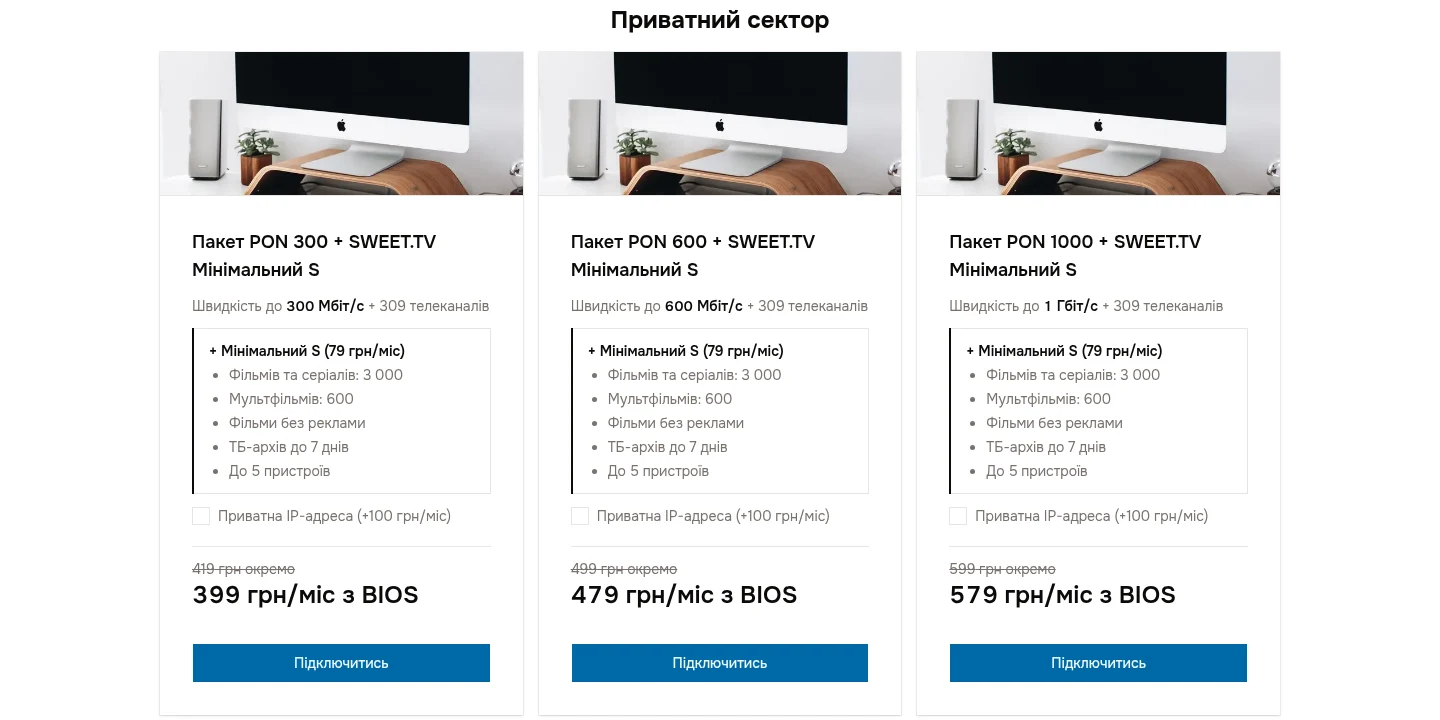
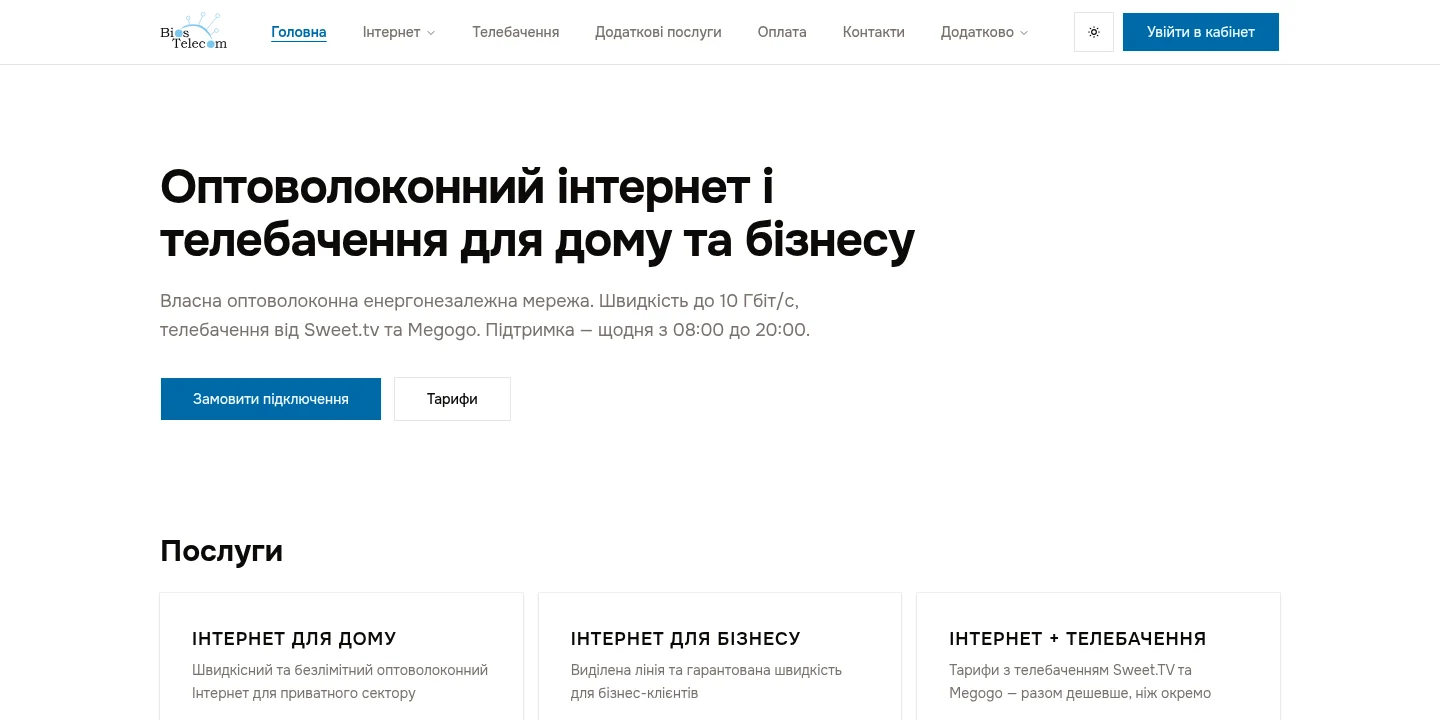
Show homepage covers and clarify case study ownership

diff --git a/content/projects/smts.md b/content/projects/smts.md
@@ -1,41 +1,35 @@
 ---
 title: SMTS
-description: Pre-launch rebuild of a smart-home installer's website, moved from an outdated WordPress codebase to Next.js and Payload CMS.
+description: I designed and built this site for a smart-home installer in WordPress, then rebuilt it with Next.js and Payload CMS.
 status: pre-launch
 featured: true
 date: 2026-11-18
 cover: /projects/smts/cover.webp
-coverAlt: SMTS home page on desktop. The hero offers turnkey smart-home design and installation, with a button to book a demonstration and the company's phone and messenger contacts in the header.
+coverAlt: SMTS homepage showing a phone with smart-home controls, a heading about design and installation, and a button to explore system features.
 technologies:
   [nextjs, payload-cms, react, typescript, tailwindcss, postgresql, playwright]
 ---
 
 **Status: pre-launch.** The rebuilt site is not public yet. The client's
 current domain still serves the old WordPress site, so there is no live demo.
-The screenshots come from an isolated build with sample data.
+The cover shows the rebuilt homepage from an isolated build with sample data.
 
 ## The problem
 
 SMTS (Smart Technology Systems) designs and installs smart-home systems. Its
-website ran on an outdated WordPress codebase that was hard to update.
+original WordPress codebase had become hard to update.
 
 ## What I did
 
-With AI assistance, I:
-
-- migrated the WordPress codebase to Next.js, with Payload CMS for content;
-- refined the UI;
-- set up deployment;
-- optimised SEO;
-- integrated Telegram for lead notifications.
+I designed and developed the original WordPress site myself. With AI
+assistance, I rebuilt it with Next.js and Payload CMS, refined the UI, set up
+deployment, optimized SEO, and integrated Telegram for lead notifications.
 
 ## The visitor workflow
 
 Visitors explore smart-home scenarios, then answer six questions about their
 home. Their answers carry into the contact step, so the request arrives with
 that context.
-
-![SMTS cost estimate quiz on a phone, at question 3 of 6: a slider sets the number of rooms to 5, with a button to go to the next question.](/projects/smts/mobile-quiz.webp)
 
 ## How it is tested
 

diff --git a/content/projects/nysanet.md b/content/projects/nysanet.md
@@ -1,16 +1,16 @@
 ---
 title: NysaNet
-description: Pre-launch fiber website rebuild that carries a household's town, building type and plan into its installation request.
+description: I designed and built this fiber broadband website in WordPress, then rebuilt it with Next.js and Payload CMS.
 status: pre-launch
 date: 2026-11-26
 cover: /projects/nysanet/cover.webp
-coverAlt: NysaNet pricing page with Nysa and single-family homes selected. Four fiber plans are shown side by side, including Srebrna PLUS.
+coverAlt: NysaNet homepage promoting home fiber broadband beside a family photo, with buttons to view pricing or request installation.
 technologies:
   [nextjs, payload-cms, react, typescript, tailwindcss, postgresql, playwright]
 ---
 
 **Pre-launch.** At the last check, the public homepage still served the
-WordPress site. The November 26, 2026 screenshots show an isolated build.
+WordPress site. The cover shows the rebuilt homepage from an isolated build.
 
 ## The problem
 
@@ -19,8 +19,9 @@ building type before requesting installation.
 
 ## What I did
 
-With AI assistance, I migrated the WordPress codebase to Next.js and Payload
-CMS, refined the UI, set up deployment, optimized SEO, and integrated Telegram.
+I designed and developed the original WordPress site myself. With AI
+assistance, I rebuilt it with Next.js and Payload CMS, refined the UI, set up
+deployment, optimized SEO, and integrated Telegram.
 The rebuilt site can seed its initial WordPress content and media into Payload
 from bundled files, without connecting to the old site.
 
@@ -29,8 +30,6 @@ from bundled files, without connecting to the old site.
 A visitor selects Nysa, switches between single-family homes and apartment
 blocks, and compares the available plans. Choosing Srebrna PLUS for a house
 carries Nysa, the building type, and the plan into the installation form.
-
-![NysaNet installation form on mobile with Nysa, single-family home and Srebrna PLUS already selected. Contact and street address fields are blank.](/projects/nysanet/mobile-installation.webp)
 
 ## How it is tested
 

diff --git a/content/projects/bios-telecom.md b/content/projects/bios-telecom.md
@@ -1,16 +1,16 @@
 ---
 title: BIOS Telecom
-description: Pre-launch telecom website rebuild that lets visitors compare internet plans by locality and add a TV tier.
+description: I designed and built this website for an internet and TV provider in WordPress, then rebuilt it with Next.js and Payload CMS.
 status: pre-launch
 date: 2026-11-26
 cover: /projects/bios-telecom/cover.webp
-coverAlt: BIOS Telecom desktop tariff comparison showing three PON internet speeds bundled with the same SWEET.TV tier.
+coverAlt: BIOS Telecom homepage offering fiber internet and TV for homes and businesses, with buttons to request connection or view plans.
 technologies:
   [nextjs, payload-cms, react, typescript, tailwindcss, postgresql, playwright]
 ---
 
 **Pre-launch.** At the last check, the public site showed a maintenance page.
-The November 26, 2026 screenshots show an isolated build.
+The cover shows the rebuilt homepage from an isolated build.
 
 ## The problem
 
@@ -19,8 +19,9 @@ bundle includes when they add TV.
 
 ## What I did
 
-With AI assistance, I migrated the WordPress codebase to Next.js and Payload
-CMS, refined the UI, set up deployment, optimized SEO, and integrated Telegram.
+I designed and developed the original WordPress site myself. With AI
+assistance, I rebuilt it with Next.js and Payload CMS, refined the UI, set up
+deployment, optimized SEO, and integrated Telegram.
 
 ## The visitor workflow
 
@@ -28,8 +29,6 @@ A visitor chooses a locality such as Kolomyia and compares the internet plans
 available there. Adding a SWEET.TV tier updates the comparison with bundled
 prices. The URL preserves the locality and TV selection, and the connection
 dialog carries the selected locality into the request.
-
-![BIOS Telecom's SWEET.TV page on mobile showing provider details and two visible TV plans, each with a connect button.](/projects/bios-telecom/mobile-tv-plans.webp)
 
 ## How it is tested
 
